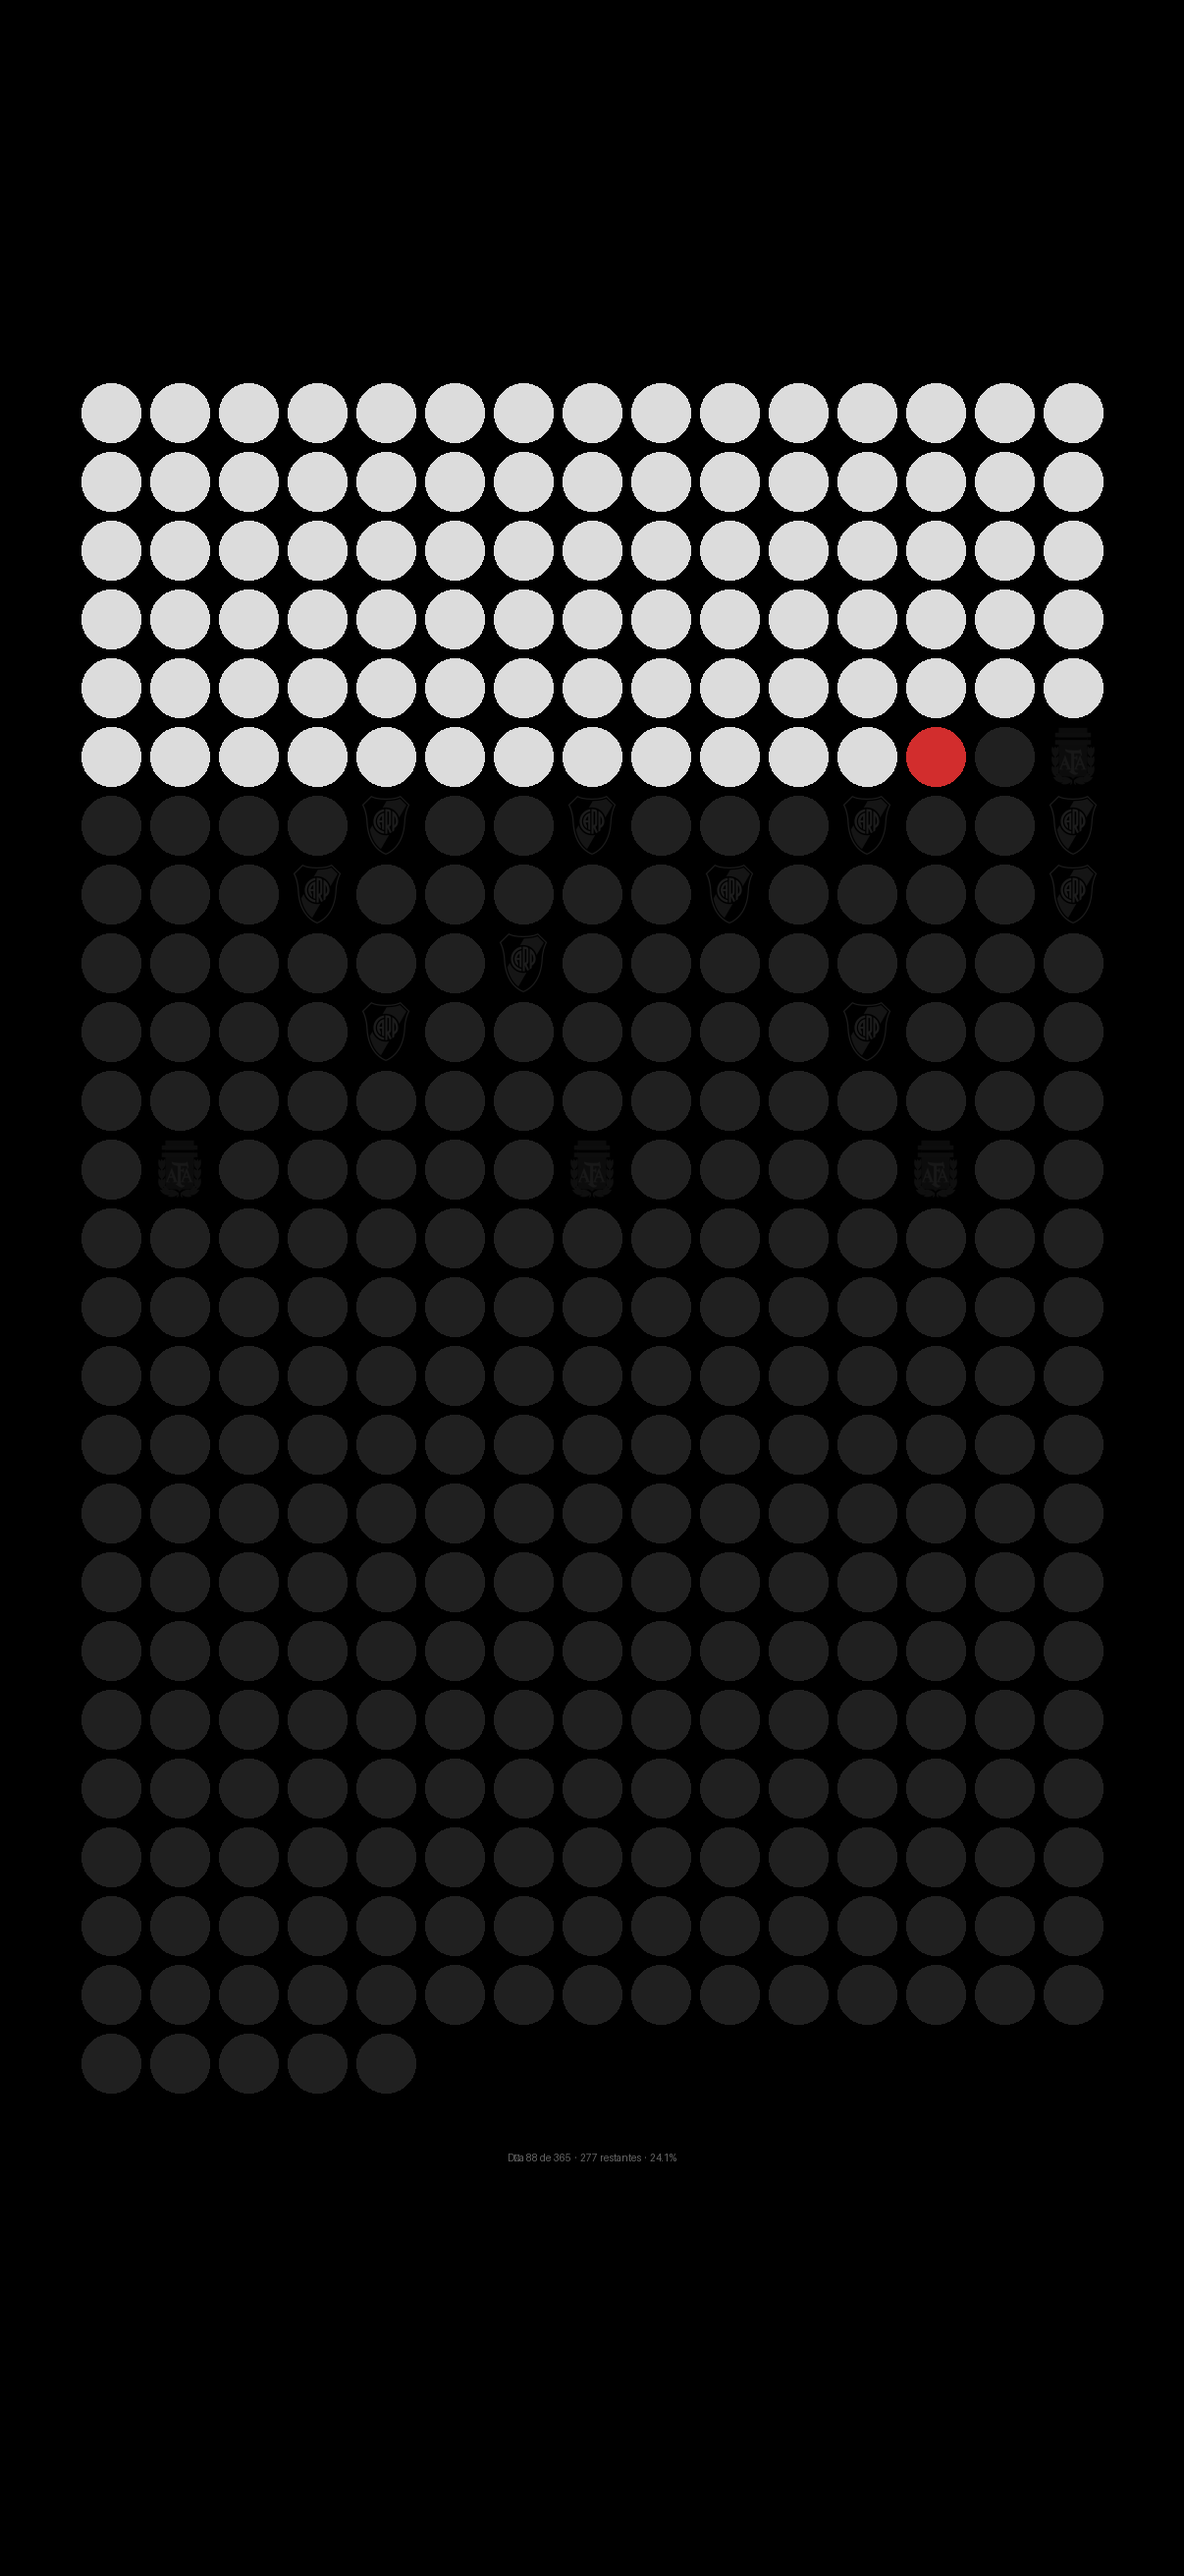
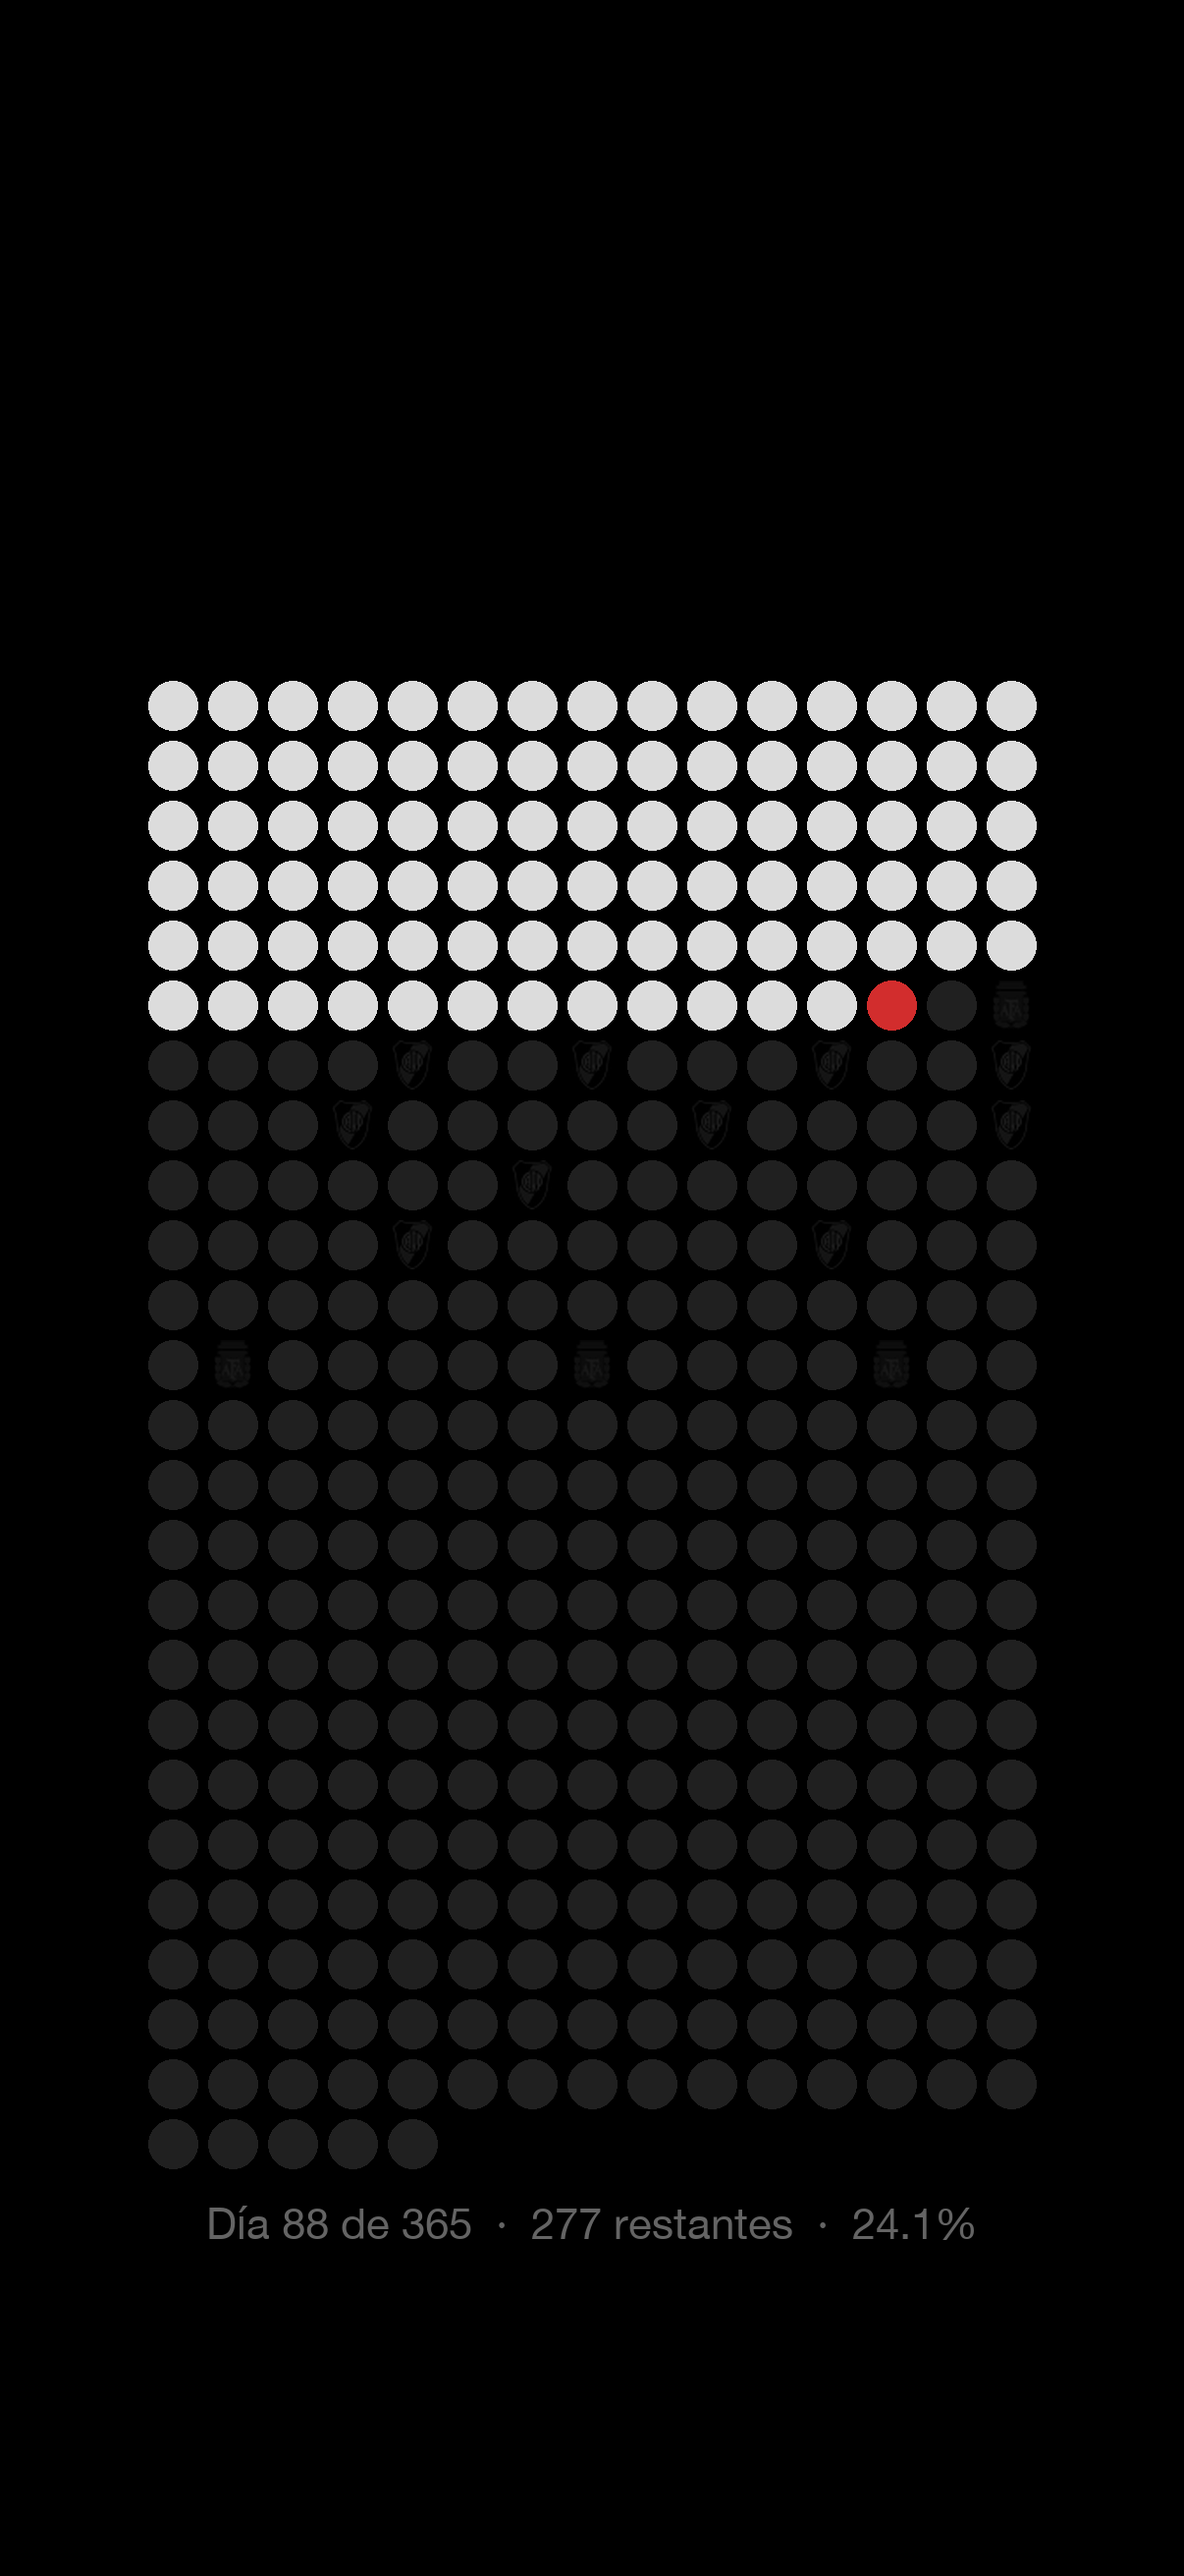
Match reference margins: DOT_R=25, GAP=11, y0=693, 151px side margins

diff --git a/generate_wallpaper.py b/generate_wallpaper.py
@@ -28,8 +28,8 @@ else:
 
 W, H  = 1206, 2622   # iPhone 16 Pro resolution
 COLS  = 15
-DOT_R = 30
-GAP   = 10
+DOT_R = 25
+GAP   = 11
 
 # Colors
 BG         = (0, 0, 0)
@@ -175,8 +175,8 @@ def generate():
     grid_w = COLS * step - GAP
     grid_h = rows * step - GAP
 
-    x0 = (W - grid_w) // 2
-    y0 = int(H * 0.149)  # ~390px, below the clock area (matches reference)
+    x0 = (W - grid_w) // 2   # = 151px margin each side
+    y0 = 693                  # matches reference top margin exactly
 
     img  = Image.new("RGB", (W, H), BG)
     draw = ImageDraw.Draw(img)
@@ -205,9 +205,9 @@ def generate():
         else:
             draw.ellipse([cx-DOT_R, cy-DOT_R, cx+DOT_R, cy+DOT_R], fill=FUTURE)
 
-    font_info = load_font(38)
+    font_info = load_font(44)
     info = f"Día {doy} de {total}  ·  {total - doy} restantes  ·  {pct:.1f}%"
-    centered_text(draw, y0 + grid_h + 60, info, font_info, TEXT_INFO)
+    centered_text(draw, y0 + grid_h + 30, info, font_info, TEXT_INFO)
 
     img.save(OUTPUT, "PNG")
     print(f"✓ Guardado en iCloud Drive: {OUTPUT}")
